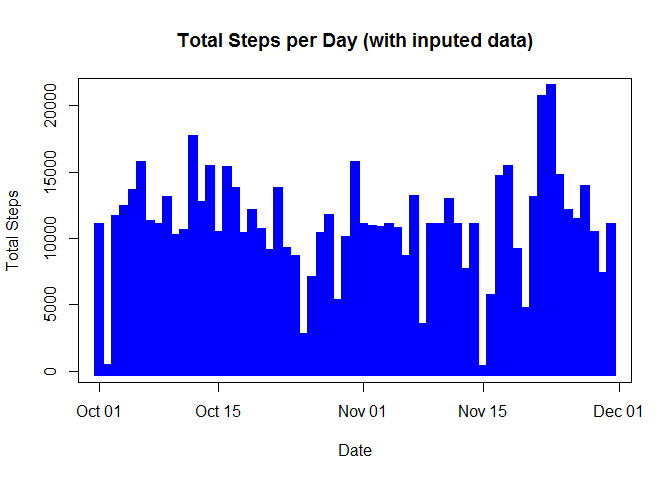
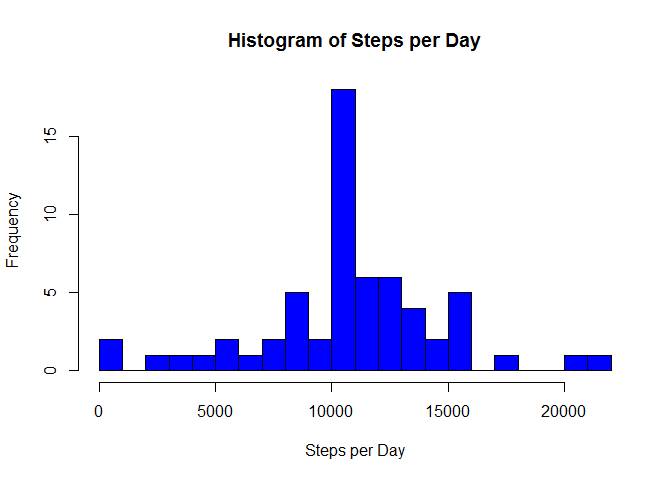
Fixed histograms. Updated .md, .html, and .png files.

diff --git a/PA1_template.html b/PA1_template.html
@@ -220,10 +220,10 @@ active2&lt;-active[complete.cases(active),] ## remove NAs
 
 <pre><code class="r">ahist&lt;-aggregate(active2$steps,by=list(active2$date),FUN=sum)
 colnames(ahist)&lt;-c(&quot;interval&quot;,&quot;sum&quot;) ## Give the columns meaningful names
-plot(ahist$interval,ahist$sum,type=&quot;h&quot;,xlab=&quot;Date&quot;,ylab=&quot;Total Steps&quot;,main=&quot;Total Steps per Day&quot;,lwd=10,lend=&quot;square&quot;,col=&quot;blue&quot;)
+hist(ahist$sum,xlab=&quot;Steps per Day&quot;,main=&quot;Histogram of Steps per Day&quot;,col=&quot;blue&quot;,breaks=20)
 </code></pre>
 
[2 lines of base64/hex data omitted]
 
 <p>What is the daily mean?</p>
 
@@ -297,10 +297,10 @@ mrg[nandx,2]&lt;-mrg[nandx,4] ## replace steps with mean steps by interval where
 
 <pre><code class="r">ahist3&lt;-aggregate(mrg$steps,by=list(mrg$date),FUN=sum)
 colnames(ahist3)&lt;-c(&quot;interval&quot;,&quot;sum&quot;) ## Give the columns meaningful names
-plot(ahist3$interval,ahist3$sum,type=&quot;h&quot;,xlab=&quot;Date&quot;,ylab=&quot;Total Steps&quot;,main=&quot;Total Steps per Day (with inputed data)&quot;,lwd=10,lend=&quot;square&quot;,col=&quot;blue&quot;)
+hist(ahist3$sum,xlab=&quot;Steps per Day&quot;,main=&quot;Histogram of Steps per Day&quot;,col=&quot;blue&quot;,breaks=20)
 </code></pre>
 
[2 lines of base64/hex data omitted]
 
 <p>What is the daily mean of the new dataset?</p>
 
@@ -319,7 +319,23 @@ plot(ahist3$interval,ahist3$sum,type=&quot;h&quot;,xlab=&quot;Date&quot;,ylab=&q
 </code></pre>
 
 <p>The mean is the same, which makes sense because we added in means.
-The median changed slightly. </p>
+The median changed slightly.</p>
+
+<p>For fun, calculate the standard deviation for the original (ahist) and dataset with imputed values (ahist3).</p>
+
+<pre><code class="r">sd(ahist$sum)
+</code></pre>
+
+<pre><code>## [1] 4269.18
+</code></pre>
+
+<pre><code class="r">sd(ahist3$sum)
+</code></pre>
+
+<pre><code>## [1] 3974.391
+</code></pre>
+
+<p>From the histogram and the standard deviation, we can see the data with imputed values are clustered closer to the mean, which is why imputed dataset picked up the mean as the median.</p>
 
 <h2>Are there differences in activity patterns between weekdays and weekends?</h2>
 
@@ -334,7 +350,7 @@ colnames(whist)&lt;-c(&quot;interval&quot;,&quot;endVday&quot;,&quot;mean&quot;)
 xyplot(whist$mean~whist$interval|whist$endVday,type=&quot;l&quot;,xlab=&quot;Interval&quot;,ylab=&quot;Number of steps&quot;,layout=c(1,2))
 </code></pre>
 
[2 lines of base64/hex data omitted]
 
 </body>
 

diff --git a/PA1_template.md b/PA1_template.md
@@ -25,7 +25,7 @@ Aggregate and plot a histogram of the total number of steps taken per day.
 ```r
 ahist<-aggregate(active2$steps,by=list(active2$date),FUN=sum)
 colnames(ahist)<-c("interval","sum") ## Give the columns meaningful names
-plot(ahist$interval,ahist$sum,type="h",xlab="Date",ylab="Total Steps",main="Total Steps per Day",lwd=10,lend="square",col="blue")
+hist(ahist$sum,xlab="Steps per Day",main="Histogram of Steps per Day",col="blue",breaks=20)
 ```
 
 ![plot of chunk unnamed-chunk-2](figure/unnamed-chunk-2-1.png) 
@@ -114,7 +114,7 @@ Aggregate and plot a histogram of the total number of steps taken per day with t
 ```r
 ahist3<-aggregate(mrg$steps,by=list(mrg$date),FUN=sum)
 colnames(ahist3)<-c("interval","sum") ## Give the columns meaningful names
-plot(ahist3$interval,ahist3$sum,type="h",xlab="Date",ylab="Total Steps",main="Total Steps per Day (with inputed data)",lwd=10,lend="square",col="blue")
+hist(ahist3$sum,xlab="Steps per Day",main="Histogram of Steps per Day",col="blue",breaks=20)
 ```
 
 ![plot of chunk unnamed-chunk-10](figure/unnamed-chunk-10-1.png) 
@@ -139,7 +139,29 @@ median(ahist3$sum)
 ## [1] 10766.19
 ```
 The mean is the same, which makes sense because we added in means.
-The median changed slightly. 
+The median changed slightly.
+
+
+
+For fun, calculate the standard deviation for the original (ahist) and dataset with imputed values (ahist3).
+
+```r
+sd(ahist$sum)
+```
+
+```
+## [1] 4269.18
+```
+
+```r
+sd(ahist3$sum)
+```
+
+```
+## [1] 3974.391
+```
+From the histogram and the standard deviation, we can see the data with imputed values are clustered closer to the mean, which is why imputed dataset picked up the mean as the median.
+
 
 ## Are there differences in activity patterns between weekdays and weekends?
 
@@ -155,4 +177,4 @@ colnames(whist)<-c("interval","endVday","mean") ## create meaningful colum names
 xyplot(whist$mean~whist$interval|whist$endVday,type="l",xlab="Interval",ylab="Number of steps",layout=c(1,2))
 ```
 
-![plot of chunk unnamed-chunk-13](figure/unnamed-chunk-13-1.png) 
+![plot of chunk unnamed-chunk-14](figure/unnamed-chunk-14-1.png) 
